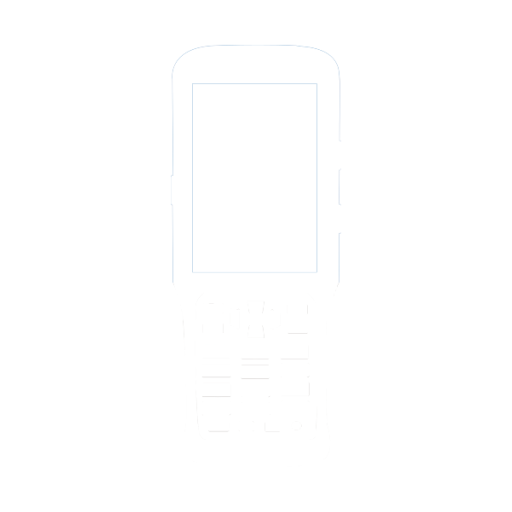
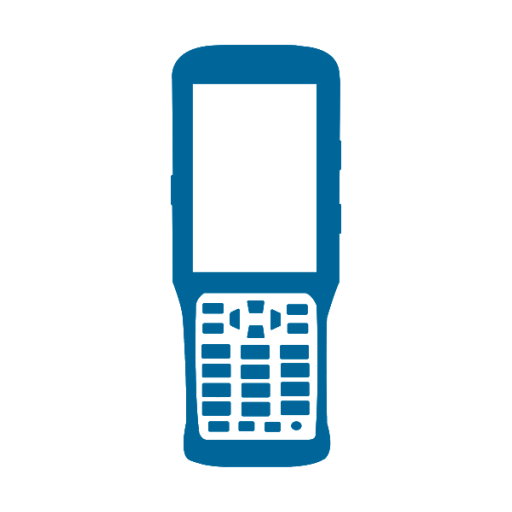
修改各界面，更换图标

Changed region(s): [[0.3125, 0.0625, 0.6875, 0.9375]]

diff --git a/src/com/hy/snrecorder/SettingActivity.java b/src/com/hy/snrecorder/SettingActivity.java
@@ -103,11 +103,11 @@ public class SettingActivity extends Activity {
 			scanTimes = 1;
 			
 			if(hasadd1 == 1){
-				vg.removeViewAt(5);
+				vg.removeViewAt(3);
 				hasadd1 = 0;
 			}
 			if(hasadd ==1){
-				vg.removeViewAt(4);
+				vg.removeViewAt(2);
 				hasadd = 0;
 			}
 			break;
@@ -118,7 +118,7 @@ public class SettingActivity extends Activity {
 				hasadd = 1;
 			}
 			if(hasadd1 == 1){
-				vg.removeViewAt(5);
+				vg.removeViewAt(3);
 				hasadd1 = 0;
 			}
 			break;
